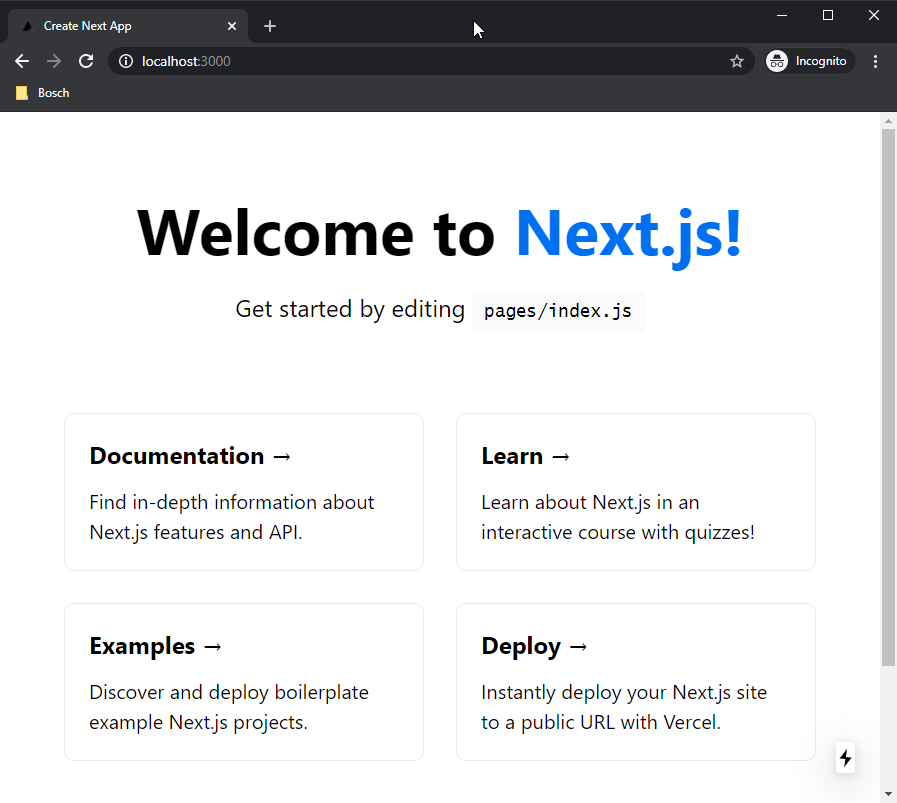
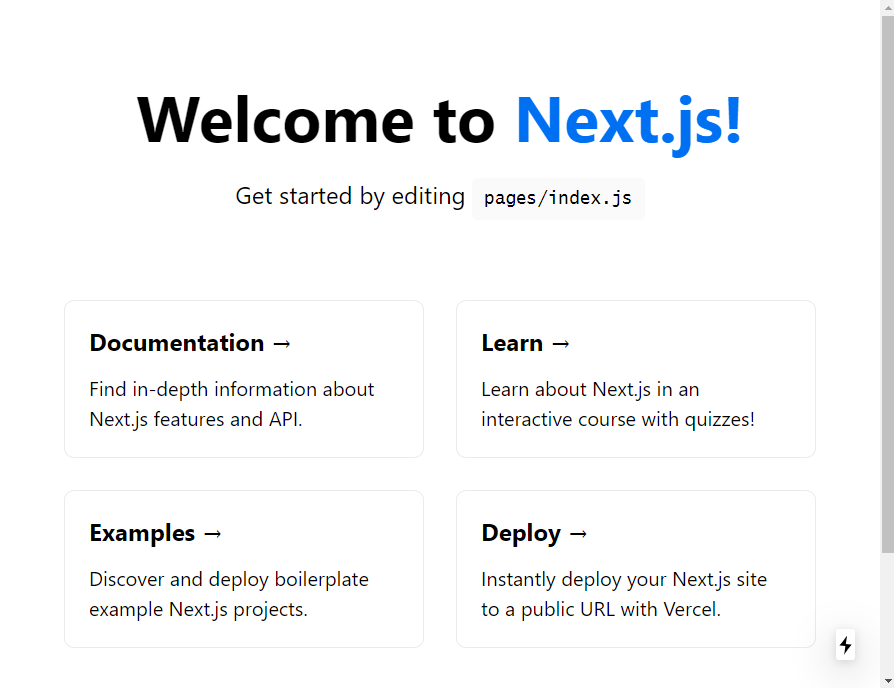
Next.js Editing the page

diff --git a/source/_posts/Next-js-Editing-the-page.md b/source/_posts/Next-js-Editing-the-page.md
@@ -1,0 +1,41 @@
+---
+title: Next-js-Editing-the-page
+tags:
+  - Next.js
+  - JavaScript
+  - React
+categories:
+  - Next.js
+date: 2020-06-10 17:51:07
+---
+
+
+# Next.js editing the page
+
+<!-- More -->
+
+## Editing the index.js
+
+We can find the index.js file from the pages folder.
+
+{% asset_img 01.png %}
+
+We can try replacing the "Welcome to" to "Let's play"
+
+{% asset_img 02.png %}
+
+{% asset_img 03.png %}
+
+Then connect to the local website http://localhost:3000
+{% codeblock %}
+C:\Blog\Next.js\nextjs-blog
+λ npm run dev
+{% endcodeblock %}
+
+We can see the server support Hot Reloading feature, the local website will automatically reload and update the page we just edit and save.
+
+{% asset_img 04.png %}
+
+And the first page will automatic reloading.
+{% asset_img 05.png %}
+{% asset_img 06.png %}
